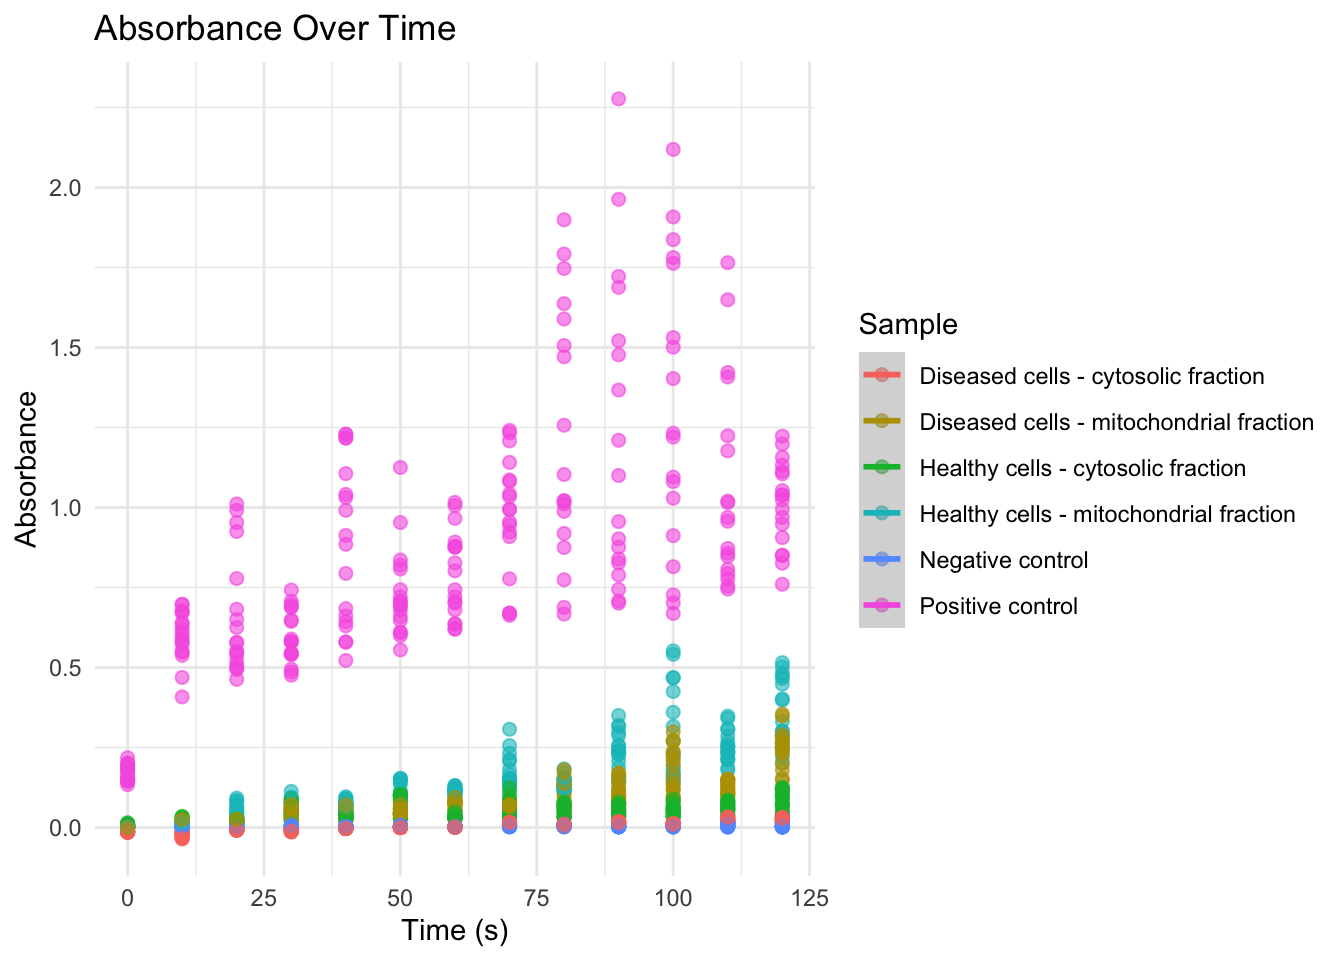
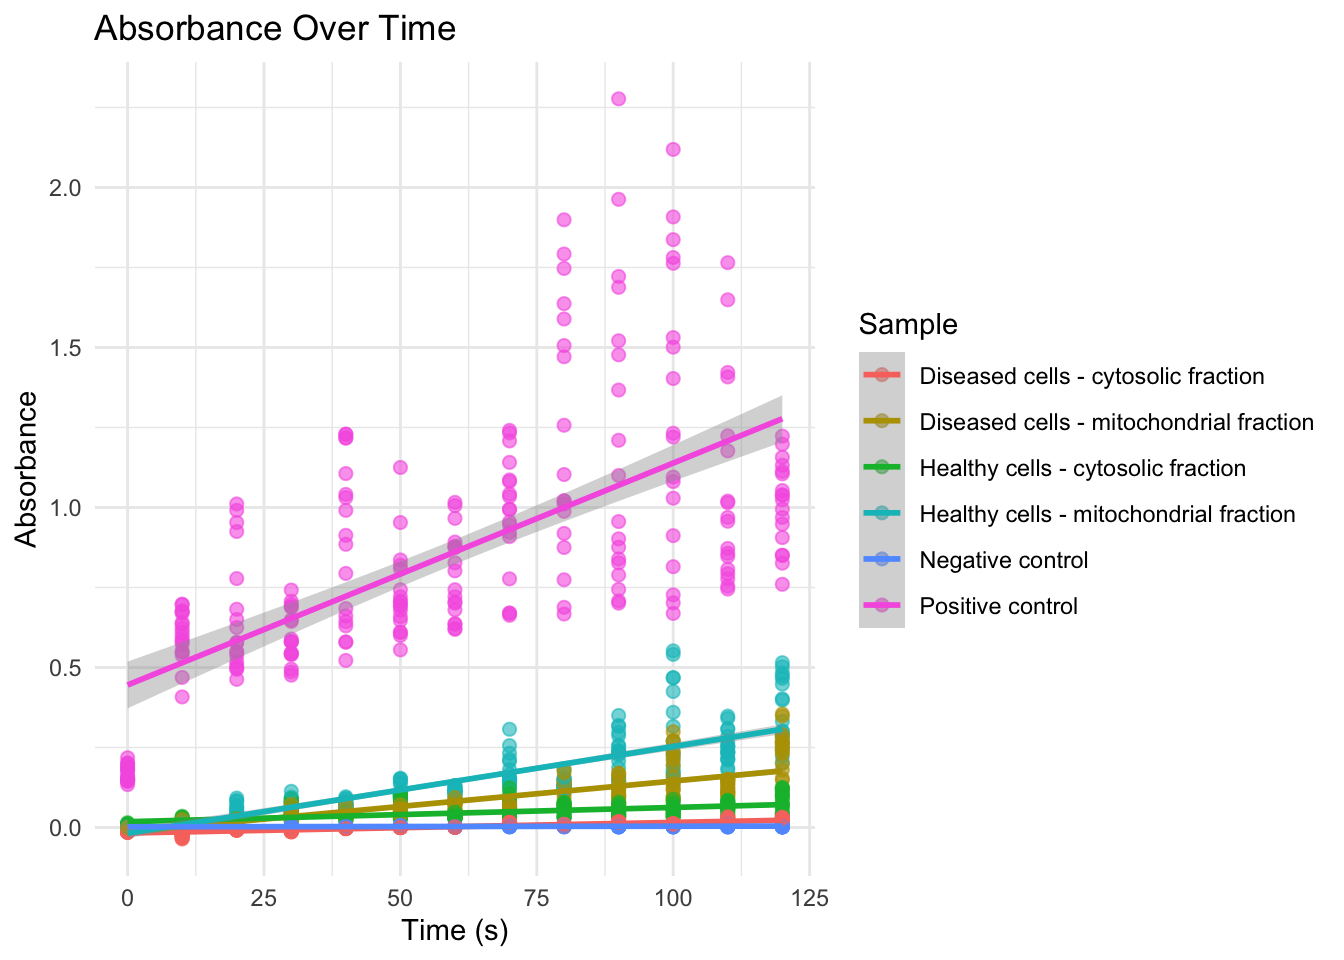
updated DP2

Changed region(s): [[0.0938, 0.75, 0.5938, 0.875], [0.0938, 0.4062, 0.5938, 0.75]]

diff --git a/docs/pages/DP2/DP2_Final.html b/docs/pages/DP2/DP2_Final.html
@@ -9,7 +9,7 @@
 <meta name="author" content="Dr Nikolas Johnston, University of Wollongong">
 <meta name="dcterms.date" content="2025-03-01">
 
-<title>Dry Prac 2 — Subcellular Fractionation Analysi – BIOL340 - Autumn 2025</title>
+<title>Dry Prac 2 — Subcellular Fractionation Analysis – BIOL340 - Autumn 2025</title>
 <style>
 code{white-space: pre-wrap;}
 span.smallcaps{font-variant: small-caps;}
@@ -126,7 +126,7 @@ pre > code.sourceCode > span > a:first-child::before { text-decoration: underlin
 </style>
 
 
-<meta property="og:title" content="Dry Prac 2 — Subcellular Fractionation Analysi – BIOL340 - Autumn 2025">
+<meta property="og:title" content="Dry Prac 2 — Subcellular Fractionation Analysis – BIOL340 - Autumn 2025">
 <meta property="og:description" content="Homepage for BIOL340 Dry Pracs, University of Wollongong, Autumn 2025.">
 <meta property="og:site_name" content="BIOL340 - Autumn 2025">
 </head>
@@ -284,12 +284,6 @@ pre > code.sourceCode > span > a:first-child::before { text-decoration: underlin
 </li>
           <li class="sidebar-item">
   <div class="sidebar-item-container"> 
-  <a href="../../pages/1/5_joins.html" class="sidebar-item-text sidebar-link">
- <span class="menu-text">The Joins function</span></a>
-  </div>
-</li>
-          <li class="sidebar-item">
-  <div class="sidebar-item-container"> 
   <a href="../../pages/1/7_summarise.html" class="sidebar-item-text sidebar-link">
  <span class="menu-text">The Summarise function</span></a>
   </div>
@@ -340,6 +334,12 @@ pre > code.sourceCode > span > a:first-child::before { text-decoration: underlin
  <span class="menu-text">Basic plots</span></a>
   </div>
 </li>
+          <li class="sidebar-item">
+  <div class="sidebar-item-container"> 
+  <a href="../../pages/supplementary/cheetsheet.html" class="sidebar-item-text sidebar-link">
+ <span class="menu-text">Additional ggplot2 support</span></a>
+  </div>
+</li>
           <li class="sidebar-item sidebar-item-section">
       <div class="sidebar-item-container"> 
             <a class="sidebar-item-text sidebar-link text-start collapsed" data-bs-toggle="collapse" data-bs-target="#quarto-sidebar-section-7" role="navigation" aria-expanded="false">
@@ -387,70 +387,6 @@ pre > code.sourceCode > span > a:first-child::before { text-decoration: underlin
 </li>
       </ul>
   </li>
-          <li class="sidebar-item sidebar-item-section">
-      <div class="sidebar-item-container"> 
-            <a class="sidebar-item-text sidebar-link text-start collapsed" data-bs-toggle="collapse" data-bs-target="#quarto-sidebar-section-8" role="navigation" aria-expanded="false">
- <span class="menu-text">Data Manipulation</span></a>
-          <a class="sidebar-item-toggle text-start collapsed" data-bs-toggle="collapse" data-bs-target="#quarto-sidebar-section-8" role="navigation" aria-expanded="false" aria-label="Toggle section">
-            <i class="bi bi-chevron-right ms-2"></i>
-          </a> 
-      </div>
-      <ul id="quarto-sidebar-section-8" class="collapse list-unstyled sidebar-section depth2 ">  
-          <li class="sidebar-item">
-  <div class="sidebar-item-container"> 
-  <a href="../../pages/1/1_rename.html" class="sidebar-item-text sidebar-link">
- <span class="menu-text">Renaming data</span></a>
-  </div>
-</li>
-          <li class="sidebar-item">
-  <div class="sidebar-item-container"> 
-  <a href="../../pages/1/2_mutate.html" class="sidebar-item-text sidebar-link">
- <span class="menu-text">The Mutate function</span></a>
-  </div>
-</li>
-          <li class="sidebar-item">
-  <div class="sidebar-item-container"> 
-  <a href="../../pages/1/4_select.html" class="sidebar-item-text sidebar-link">
- <span class="menu-text">The Select function</span></a>
-  </div>
-</li>
-          <li class="sidebar-item">
-  <div class="sidebar-item-container"> 
-  <a href="../../pages/1/5_joins.html" class="sidebar-item-text sidebar-link">
- <span class="menu-text">The Joins function</span></a>
-  </div>
-</li>
-          <li class="sidebar-item">
-  <div class="sidebar-item-container"> 
-  <a href="../../pages/1/7_summarise.html" class="sidebar-item-text sidebar-link">
- <span class="menu-text">The Summarise function</span></a>
-  </div>
-</li>
-          <li class="sidebar-item">
-  <div class="sidebar-item-container"> 
-  <a href="../../pages/1/8_pipe.html" class="sidebar-item-text sidebar-link">
- <span class="menu-text">The Pipe function</span></a>
-  </div>
-</li>
-      </ul>
-  </li>
-      </ul>
-  </li>
-        <li class="sidebar-item sidebar-item-section">
-      <div class="sidebar-item-container"> 
-            <a class="sidebar-item-text sidebar-link text-start collapsed" data-bs-toggle="collapse" data-bs-target="#quarto-sidebar-section-9" role="navigation" aria-expanded="false">
- <span class="menu-text">Extra help!</span></a>
-          <a class="sidebar-item-toggle text-start collapsed" data-bs-toggle="collapse" data-bs-target="#quarto-sidebar-section-9" role="navigation" aria-expanded="false" aria-label="Toggle section">
-            <i class="bi bi-chevron-right ms-2"></i>
-          </a> 
-      </div>
-      <ul id="quarto-sidebar-section-9" class="collapse list-unstyled sidebar-section depth1 ">  
-          <li class="sidebar-item">
-  <div class="sidebar-item-container"> 
-  <a href="../../pages/supplementary/cheetsheet.html" class="sidebar-item-text sidebar-link">
- <span class="menu-text">Additional ggplot2 support</span></a>
-  </div>
-</li>
       </ul>
   </li>
     </ul>
@@ -468,7 +404,7 @@ pre > code.sourceCode > span > a:first-child::before { text-decoration: underlin
   <li><a href="#load-the-class-dataset" id="toc-load-the-class-dataset" class="nav-link" data-scroll-target="#load-the-class-dataset">Load the Class Dataset</a></li>
   <li><a href="#plot-the-absorbance-over-time" id="toc-plot-the-absorbance-over-time" class="nav-link" data-scroll-target="#plot-the-absorbance-over-time">Plot the Absorbance Over Time</a>
   <ul class="collapse">
-  <li><a href="#what-does-this-tell-you-about-the-rate-of-the-reaction" id="toc-what-does-this-tell-you-about-the-rate-of-the-reaction" class="nav-link" data-scroll-target="#what-does-this-tell-you-about-the-rate-of-the-reaction"><span style="color:red">What does this tell you about the rate of the reaction?</span></a></li>
+  <li><a href="#what-does-this-tell-you-about-the-rate-of-the-reactions-for-the-different-sample-types" id="toc-what-does-this-tell-you-about-the-rate-of-the-reactions-for-the-different-sample-types" class="nav-link" data-scroll-target="#what-does-this-tell-you-about-the-rate-of-the-reactions-for-the-different-sample-types"><span style="color:red">What does this tell you about the rate of the reactions for the different sample types?</span></a></li>
   </ul></li>
   <li><a href="#calculating-specific-enzyme-activity" id="toc-calculating-specific-enzyme-activity" class="nav-link" data-scroll-target="#calculating-specific-enzyme-activity">Calculating Specific Enzyme Activity</a></li>
   <li><a href="#class-data-analysis-specific-activity-of-citrate-synthase" id="toc-class-data-analysis-specific-activity-of-citrate-synthase" class="nav-link" data-scroll-target="#class-data-analysis-specific-activity-of-citrate-synthase">Class Data Analysis: Specific Activity of Citrate Synthase</a></li>
@@ -492,7 +428,7 @@ pre > code.sourceCode > span > a:first-child::before { text-decoration: underlin
 
 <header id="title-block-header" class="quarto-title-block default"><nav class="quarto-page-breadcrumbs quarto-title-breadcrumbs d-none d-lg-block" aria-label="breadcrumb"><ol class="breadcrumb"><li class="breadcrumb-item"><a href="../../pages/DP2/DP2_Final.html">Dry Prac 2</a></li><li class="breadcrumb-item"><a href="../../pages/DP2/DP2_Final.html">Dry Prac 1 Notes</a></li></ol></nav>
 <div class="quarto-title">
-<h1 class="title">Dry Prac 2 — Subcellular Fractionation Analysi</h1>
+<h1 class="title">Dry Prac 2 — Subcellular Fractionation Analysis</h1>
 </div>
 
 
@@ -524,7 +460,7 @@ pre > code.sourceCode > span > a:first-child::before { text-decoration: underlin
 <section id="background-and-purpose" class="level2">
 <h2 class="anchored" data-anchor-id="background-and-purpose">Background and Purpose</h2>
 <p>In Dry Practical 1, you were introduced to the basics of handling biological data in R, using tidyverse functions and <code>ggplot2</code> to visualise simple trends. That session was designed to help you become comfortable navigating RStudio, working with tabular data, and generating figures that communicate biological patterns clearly.</p>
-<p>In this second dry practical, we’ll extend those skills by working with <strong>real experimental data</strong> that you generated in the wet lab. Specifically, we’ll use your results from the <strong>subcellular fractionation practical</strong>, where you separated healthy and diseased cells into mitochondrial and cytosolic fractions, then measured protein concentration and enzyme activity.</p>
+<p>In this second dry practical, we’ll extend those skills by working with <strong>experimental data</strong> that you generated in the wet lab. Specifically, we’ll use your results from the <strong>subcellular fractionation practical</strong>, where you separated healthy and diseased cells into mitochondrial and cytosolic fractions, then measured protein concentration and enzyme activity.</p>
 <p>This practical will focus on:</p>
 <ul>
 <li>Calculating <strong>specific enzyme activity</strong> for each sample</li>
@@ -622,7 +558,7 @@ Note
 <span id="cb5-4"><a href="#cb5-4" aria-hidden="true" tabindex="-1"></a></span>
 <span id="cb5-5"><a href="#cb5-5" aria-hidden="true" tabindex="-1"></a><span class="fu">ggplot</span>(data_long, <span class="fu">aes</span>(<span class="at">x =</span> time, <span class="at">y =</span> absorbance, <span class="at">colour =</span> Sample)) <span class="sc">+</span></span>
 <span id="cb5-6"><a href="#cb5-6" aria-hidden="true" tabindex="-1"></a>  <span class="fu">geom_point</span>(<span class="at">alpha =</span> <span class="fl">0.6</span>, <span class="at">size =</span> <span class="dv">2</span>) <span class="sc">+</span></span>
-<span id="cb5-7"><a href="#cb5-7" aria-hidden="true" tabindex="-1"></a>  <span class="fu">geom_smooth</span>(<span class="at">method =</span><span class="st">'l'</span>) <span class="sc">+</span></span>
+<span id="cb5-7"><a href="#cb5-7" aria-hidden="true" tabindex="-1"></a>  <span class="fu">geom_smooth</span>(<span class="at">method =</span><span class="st">'lm'</span>) <span class="sc">+</span></span>
 <span id="cb5-8"><a href="#cb5-8" aria-hidden="true" tabindex="-1"></a>  <span class="fu">labs</span>(<span class="at">title =</span> <span class="st">"Absorbance Over Time"</span>,</span>
 <span id="cb5-9"><a href="#cb5-9" aria-hidden="true" tabindex="-1"></a>       <span class="at">x =</span> <span class="st">"Time (s)"</span>,</span>
 <span id="cb5-10"><a href="#cb5-10" aria-hidden="true" tabindex="-1"></a>       <span class="at">y =</span> <span class="st">"Absorbance"</span>) <span class="sc">+</span></span>
@@ -635,8 +571,8 @@ Note
 </div>
 </div>
 </div>
-<section id="what-does-this-tell-you-about-the-rate-of-the-reaction" class="level3">
-<h3 class="anchored" data-anchor-id="what-does-this-tell-you-about-the-rate-of-the-reaction"><span style="color:red">What does this tell you about the rate of the reaction?</span></h3>
+<section id="what-does-this-tell-you-about-the-rate-of-the-reactions-for-the-different-sample-types" class="level3">
+<h3 class="anchored" data-anchor-id="what-does-this-tell-you-about-the-rate-of-the-reactions-for-the-different-sample-types"><span style="color:red">What does this tell you about the rate of the reactions for the different sample types?</span></h3>
 </section>
 </section>
 <section id="calculating-specific-enzyme-activity" class="level2">
@@ -717,7 +653,7 @@ Note
 <div class="cell">
 <div class="sourceCode cell-code" id="cb10"><pre class="sourceCode r code-with-copy"><code class="sourceCode r"><span id="cb10-1"><a href="#cb10-1" aria-hidden="true" tabindex="-1"></a><span class="fu">ggplot</span>(data, <span class="fu">aes</span>(<span class="at">x =</span> GROUP, <span class="at">y =</span> Specific_Activity)) <span class="sc">+</span></span>
 <span id="cb10-2"><a href="#cb10-2" aria-hidden="true" tabindex="-1"></a>  <span class="fu">geom_boxplot</span>() <span class="sc">+</span></span>
-<span id="cb10-3"><a href="#cb10-3" aria-hidden="true" tabindex="-1"></a>  <span class="fu">labs</span>(<span class="at">title =</span> <span class="st">"Citrate Synthase Activity by Sample (Faceted by GROUP)"</span>,</span>
+<span id="cb10-3"><a href="#cb10-3" aria-hidden="true" tabindex="-1"></a>  <span class="fu">labs</span>(<span class="at">title =</span> <span class="st">"Citrate Synthase Activity by Sample (Faceted by SAMPLE)"</span>,</span>
 <span id="cb10-4"><a href="#cb10-4" aria-hidden="true" tabindex="-1"></a>       <span class="at">x =</span> <span class="st">"Sample"</span>,</span>
 <span id="cb10-5"><a href="#cb10-5" aria-hidden="true" tabindex="-1"></a>       <span class="at">y =</span> <span class="st">"Specific Activity (nmol/min/mg)"</span>) <span class="sc">+</span></span>
 <span id="cb10-6"><a href="#cb10-6" aria-hidden="true" tabindex="-1"></a>  <span class="fu">theme_minimal</span>() <span class="sc">+</span></span>
